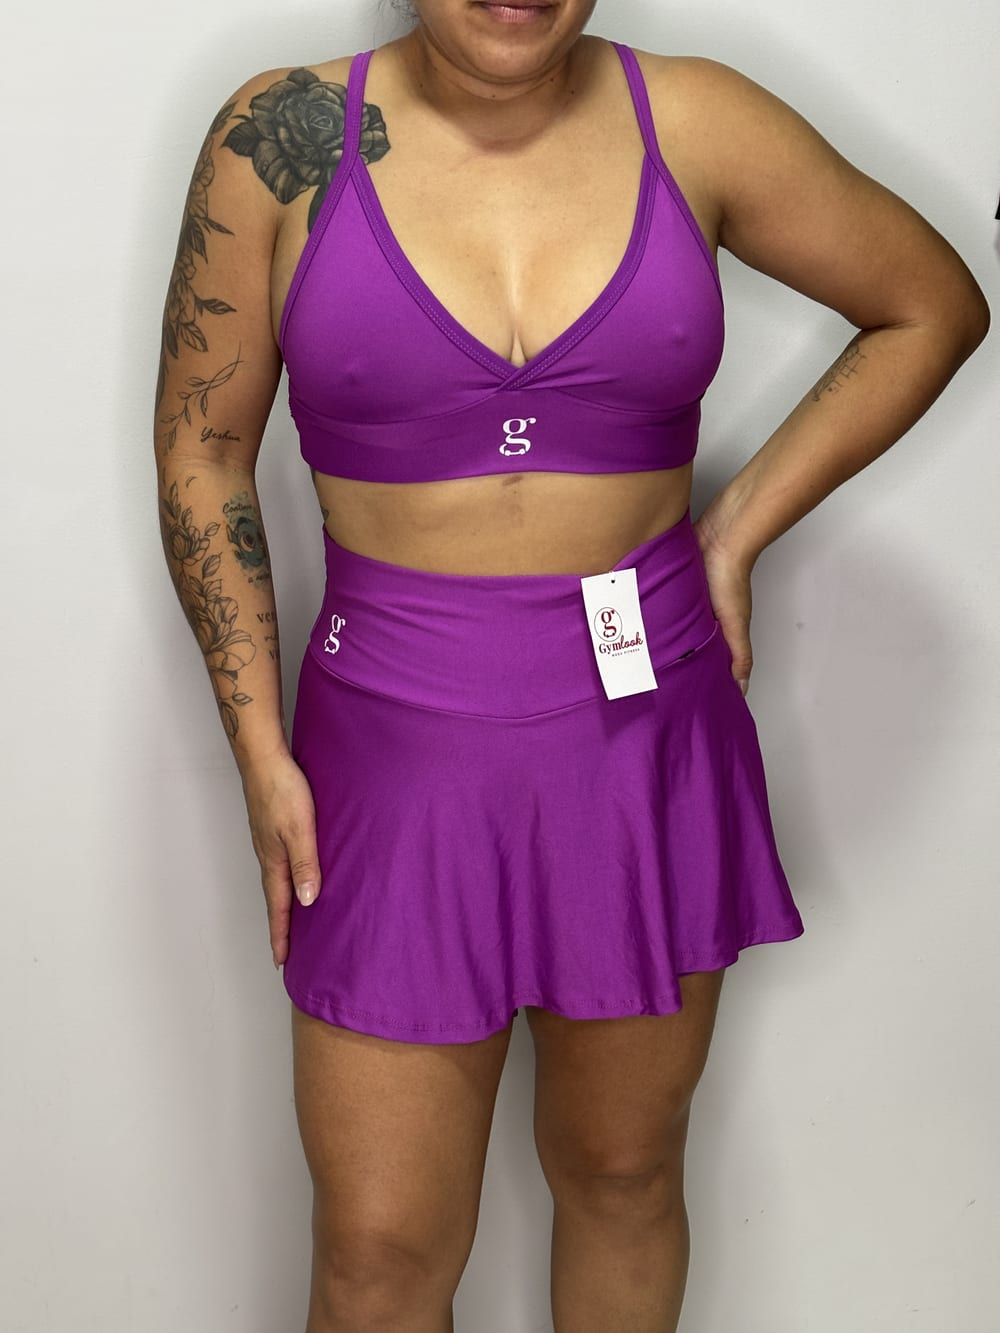
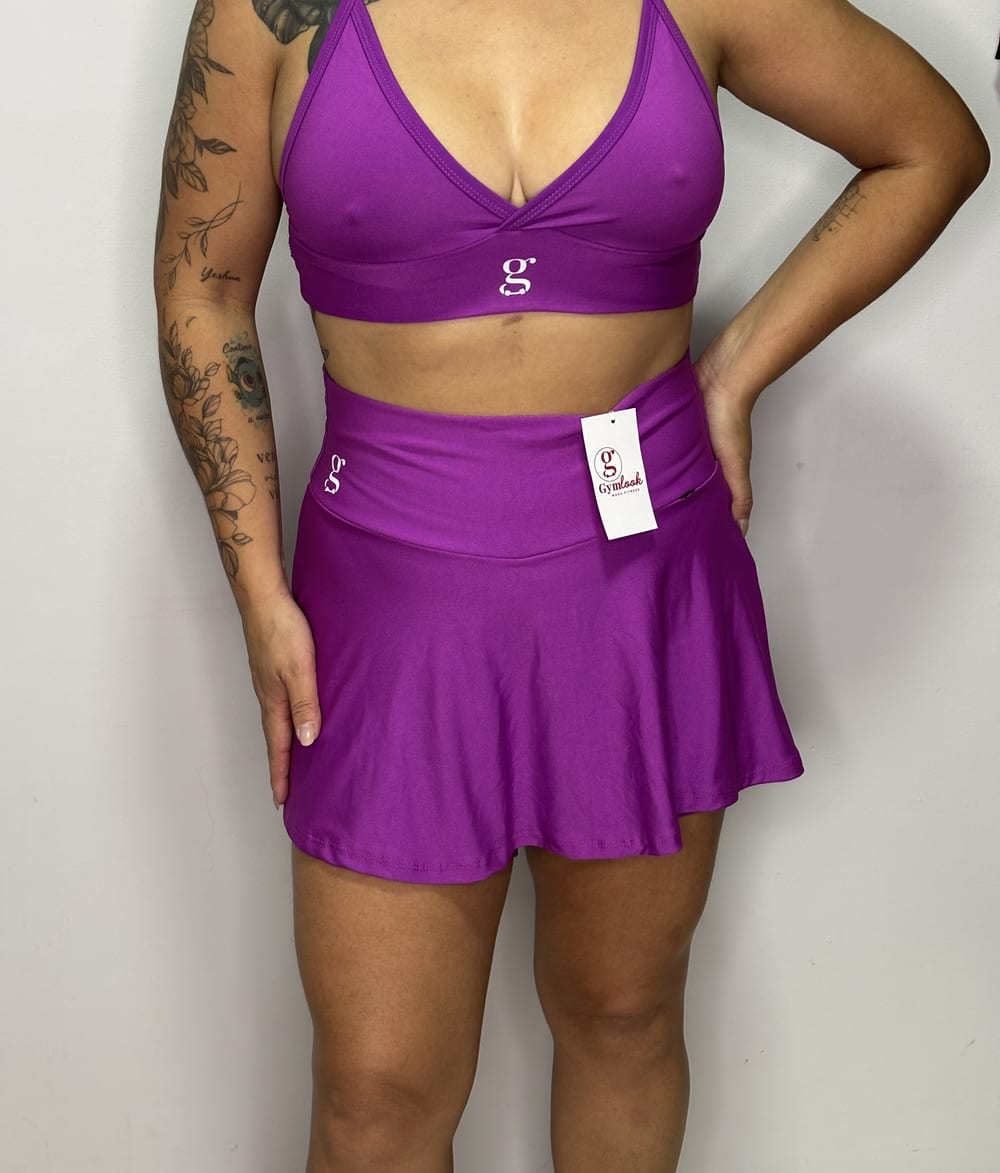
Ajusta a posição do texto em elementos SVG e atualiza imagens de produtos

diff --git a/index.html b/index.html
@@ -37,7 +37,7 @@
           />
           <text
             x="50"
-            y="67"
+            y="64"
             text-anchor="middle"
             font-family="'Dancing Script', cursive"
             font-weight="700"
@@ -120,7 +120,7 @@
           <circle cx="50" cy="50" r="46" stroke="#FF6DAA" stroke-width="1.4" />
           <text
             x="50"
-            y="67"
+            y="64"
             text-anchor="middle"
             font-family="'Dancing Script', cursive"
             font-weight="700"
@@ -207,7 +207,7 @@
           />
           <text
             x="50"
-            y="67"
+            y="64"
             text-anchor="middle"
             font-family="'Dancing Script', cursive"
             font-weight="700"
